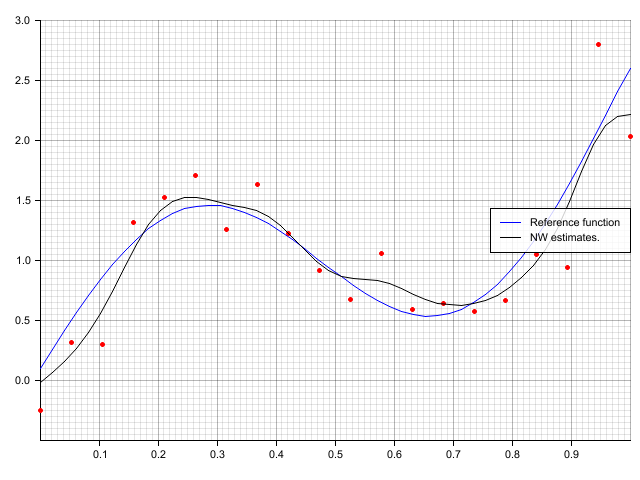
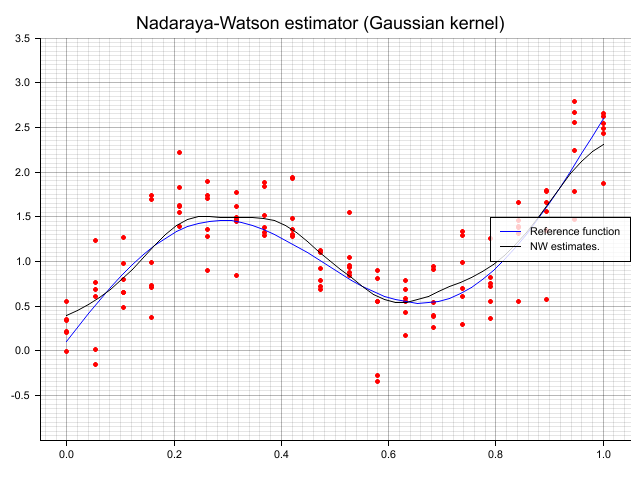
update kernel regression example

diff --git a/lib/examples/kernel_reg.rs b/lib/examples/kernel_reg.rs
@@ -14,12 +14,20 @@ fn main() {
     use nadarayawatson::*;
     use std::f64::consts::PI;
 
-
+    // Actual regression function
     let func = |x: &f64| {
         (2. * PI * x + 0.1).sin() + 1.5 * x + 1.0 * x * x
     };
 
-    let x_arr = Array1::linspace(0., 1., 20);
+    // Noisy regression data
+
+    use ndarray::{Axis, stack};
+    let x_arr_init = Array1::linspace(0., 1., 20);
+    let mut x_arr = x_arr_init.clone();
+    for _ in 0..5 {
+        x_arr = stack![Axis(0), x_arr, x_arr_init];
+    }
+
     let ref mut rng = thread_rng();
     let normal = rand_distr::StandardNormal;
     let sigma = 0.4;
@@ -30,9 +38,6 @@ fn main() {
         y + sigma * eps
     });
 
-    let x_dense_arr = Array1::linspace(0., 1., 50);
-    let y_arr = x_dense_arr.map(func);
-
     // Setup chart
 
     fs::create_dir("examples/images").unwrap_or_default();
@@ -41,13 +46,13 @@ fn main() {
         IMG_SIZE).into_drawing_area();
     root.fill(&WHITE).unwrap();
 
-    let caption = "";
+    let caption = "Nadaraya-Watson estimator (Gaussian kernel)";
     let mut chart = ChartBuilder::on(&root)
         .caption(caption, (TITLE_FONT, 20).into_font())
         .margin(10)
         .x_label_area_size(30)
         .y_label_area_size(30)
-        .build_ranged(0.0..1.0, -0.5..3.0)
+        .build_ranged(-0.05..1.05, -1.0..3.5)
         .unwrap();
 
 
@@ -62,6 +67,12 @@ fn main() {
                 Circle::new((*x, *y), size, RED.filled())
             })
     ).unwrap();
+
+
+    // Reference function
+
+    let x_dense_arr = Array1::linspace(0., 1., 50);
+    let y_arr = x_dense_arr.map(func);
 
     let data_reference_func = x_dense_arr.iter().zip(y_arr.iter()).map(
         |(x,y)| {
